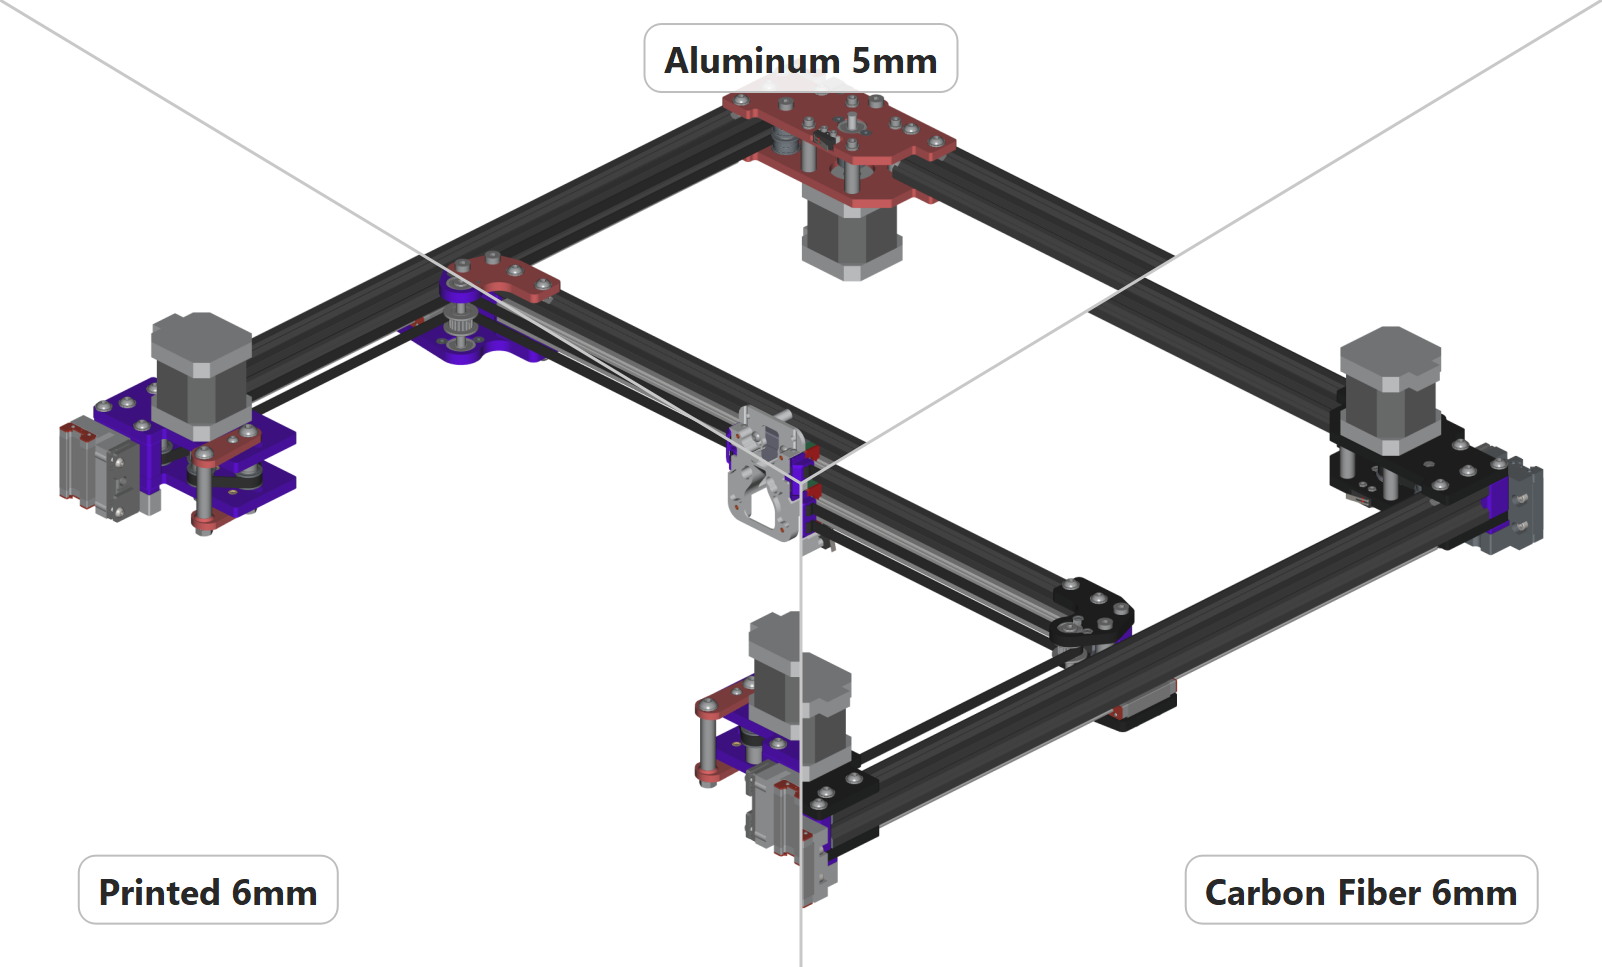
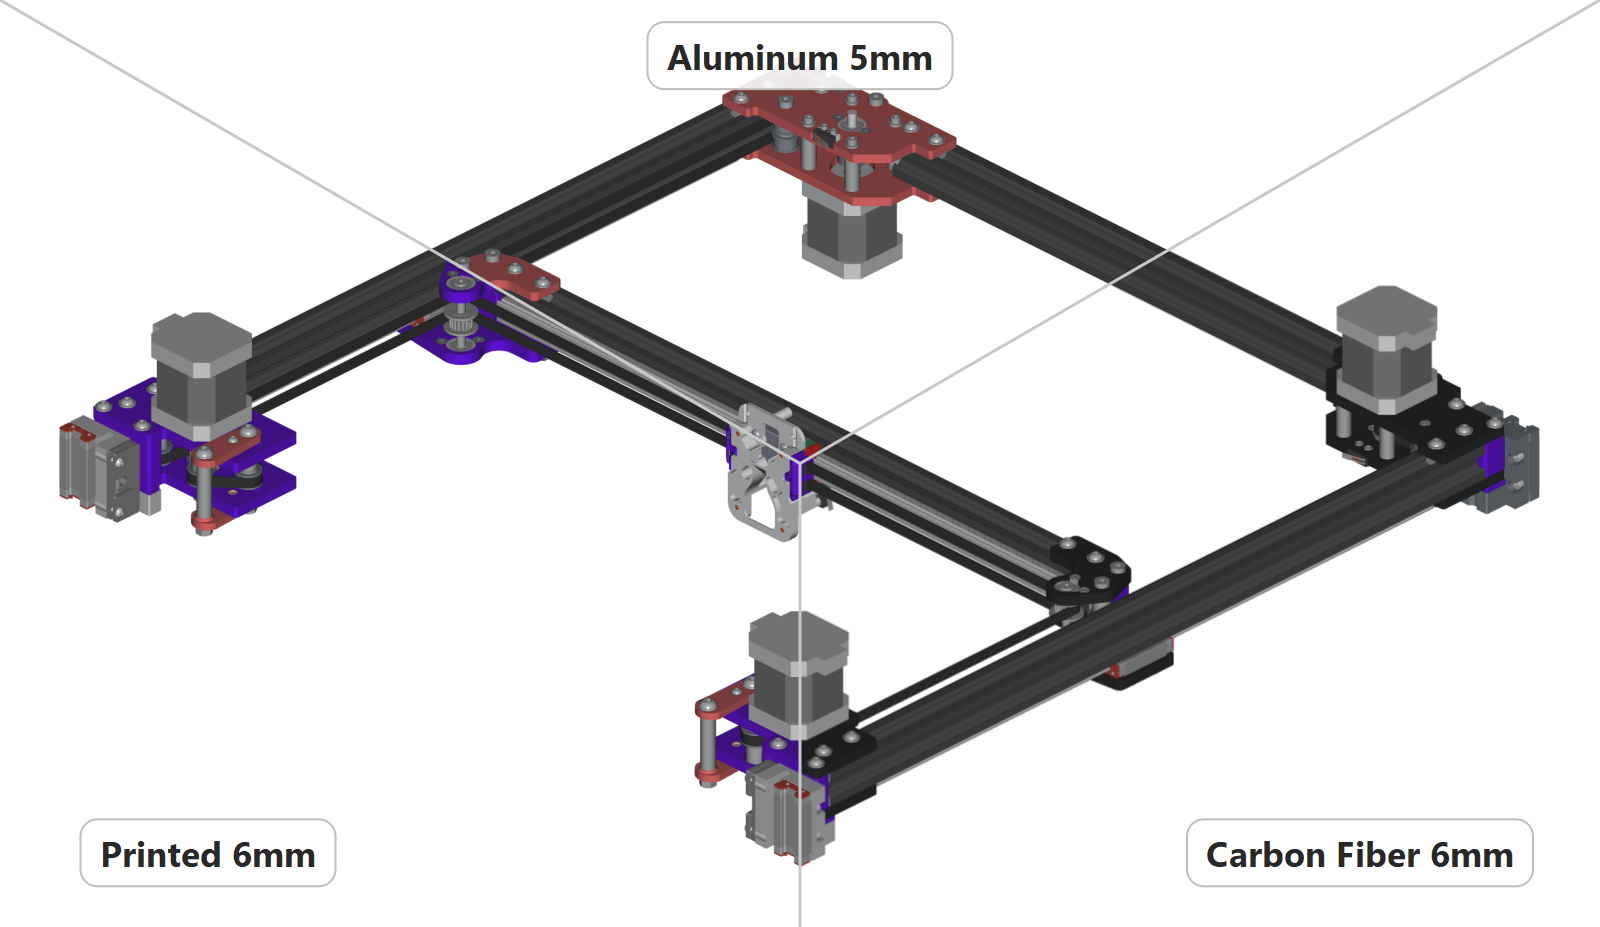
Landing image aligned on the extrusions; README calls out the Mechanical Analysis
The landing composite now registers each render to the first on its dark
pixels (scale search + FFT cross-correlation), so the CF version's
top-mounted motors no longer shift its region 40 px off the others.

diff --git a/tools/landing_composite.py b/tools/landing_composite.py
@@ -7,12 +7,16 @@ Uses <variant>/Renders/Full Gantry - Front Right.png for each variant in REGIONS
 With three variants the image is split in a "Y" from its centre: seams run to the top-left
 corner, the top-right corner and the bottom middle, giving a left, a top and a right region.
 With two, a single vertical seam splits it down the middle. Each region gets its variant's label.
-Renders are aligned on the top-left of their content, since each was auto-cropped separately.
+Each render was auto-cropped (and scaled to a fixed width) separately, so parts that stick out
+in one variant, like the CF version's top-mounted motors, shift and scale its frame. The renders
+are registered to the first one on their dark pixels (mostly the black extrusions): a search over
+scale, with FFT cross-correlation for the shift, so the gantries line up across the seams.
 Like render.py, it writes pixels only and skips unchanged output.
 """
 import os
 import sys
 
+import numpy as np
 from PySide2 import QtCore, QtGui
 
 ROOT = os.path.dirname(os.path.dirname(os.path.abspath(__file__)))
@@ -30,14 +34,36 @@ LABEL_BG = QtGui.QColor(255, 255, 255, 225)
 LABEL_EDGE = QtGui.QColor(190, 190, 190)
 
 
-def content_origin(img, step=2, threshold=248):
-    xs, ys = [], []
-    for y in range(0, img.height(), step):
-        for x in range(0, img.width(), step):
-            if QtGui.qGray(img.pixel(x, y)) < threshold:
-                xs.append(x)
-                ys.append(y)
-    return QtCore.QPoint(min(xs), min(ys))
+def dark_mask(img, step=1, threshold=60):
+    """Float array, 1 where the pixel is dark (the extrusions), sampled every step pixels."""
+    w, h = img.width(), img.height()
+    a = np.frombuffer(img.constBits(), np.uint8, img.bytesPerLine() * h)
+    a = a.reshape(h, img.bytesPerLine() // 4, 4)[:, :w, :3]
+    return (a.mean(axis=2) < threshold).astype(float)[::step, ::step]
+
+
+def resized(m, s):
+    h, w = m.shape
+    yi = np.minimum((np.arange(int(round(h * s))) / s).astype(int), h - 1)
+    xi = np.minimum((np.arange(int(round(w * s))) / s).astype(int), w - 1)
+    return m[yi][:, xi]
+
+
+def best_shift(ref, mov):
+    """(score, dx, dy): the shift of mov that best overlaps ref."""
+    H, W = ref.shape[0] + mov.shape[0], ref.shape[1] + mov.shape[1]
+    c = np.fft.irfft2(np.fft.rfft2(ref, (H, W)) * np.conj(np.fft.rfft2(mov, (H, W))), (H, W))
+    dy, dx = np.unravel_index(np.argmax(c), c.shape)
+    return c[dy, dx], (dx - W if dx > W // 2 else dx), (dy - H if dy > H // 2 else dy)
+
+
+def register(ref_img, img):
+    """(scale, dx, dy) that maps img onto ref_img: coarse search on a quarter-size mask, then refine."""
+    ref4, mov4 = dark_mask(ref_img, 4), dark_mask(img, 4)
+    _, _, _, s = max(best_shift(ref4, resized(mov4, s)) + (s,) for s in np.arange(0.90, 1.10, 0.005))
+    ref1, mov1 = dark_mask(ref_img), dark_mask(img)
+    _, dx, dy, s = max(best_shift(ref1, resized(mov1, t)) + (t,) for t in np.arange(s - 0.005, s + 0.0051, 0.001))
+    return float(s), int(dx), int(dy)
 
 
 def region_polygons(w, h, names):
@@ -67,11 +93,11 @@ def main():
     if len(regions) < 2:
         print(f"Only {len(regions)} variant render(s) found; nothing to composite.")
         return
-    origins = [content_origin(r[4]) for r in regions]
-    # Shift every image so its content's top-left lands where the first image's does.
-    shifts = [origins[0] - o for o in origins]
-    w = max(r[4].width() + s.x() for r, s in zip(regions, shifts))
-    h = max(r[4].height() + s.y() for r, s in zip(regions, shifts))
+    # Map every image onto the first one's frame; the output is the first image's size.
+    transforms = [(1.0, 0, 0)] + [register(regions[0][4], r[4]) for r in regions[1:]]
+    for r, (sc, dx, dy) in zip(regions[1:], transforms[1:]):
+        print(f"     {r[0]}: scale {sc:.3f}, shift {dx:+d}, {dy:+d} px")
+    w, h = regions[0][4].width(), regions[0][4].height()
 
     out = QtGui.QImage(w, h, QtGui.QImage.Format_RGB32)
     out.fill(QtCore.Qt.white)
@@ -82,13 +108,16 @@ def main():
     if len(regions) == 2:  # two variants: first on the left, second on the right
         regions = [regions[0][:2] + ("left",) + regions[0][3:], regions[1][:2] + ("right",) + regions[1][3:]]
 
-    for r, s in zip(regions, shifts):
+    for r, (sc, dx, dy) in zip(regions, transforms):
         path = QtGui.QPainterPath()
         path.addPolygon(QtGui.QPolygonF([QtCore.QPointF(x, y) for x, y in polys[r[2]]]))
         path.closeSubpath()
         p.save()
         p.setClipPath(path)
-        p.drawImage(s, r[4])
+        p.translate(dx, dy)
+        p.scale(sc, sc)
+        p.setRenderHint(QtGui.QPainter.SmoothPixmapTransform)
+        p.drawImage(0, 0, r[4])
         p.restore()
     p.setPen(QtGui.QPen(SEAM, 3))
     for (x1, y1), (x2, y2) in seams:
